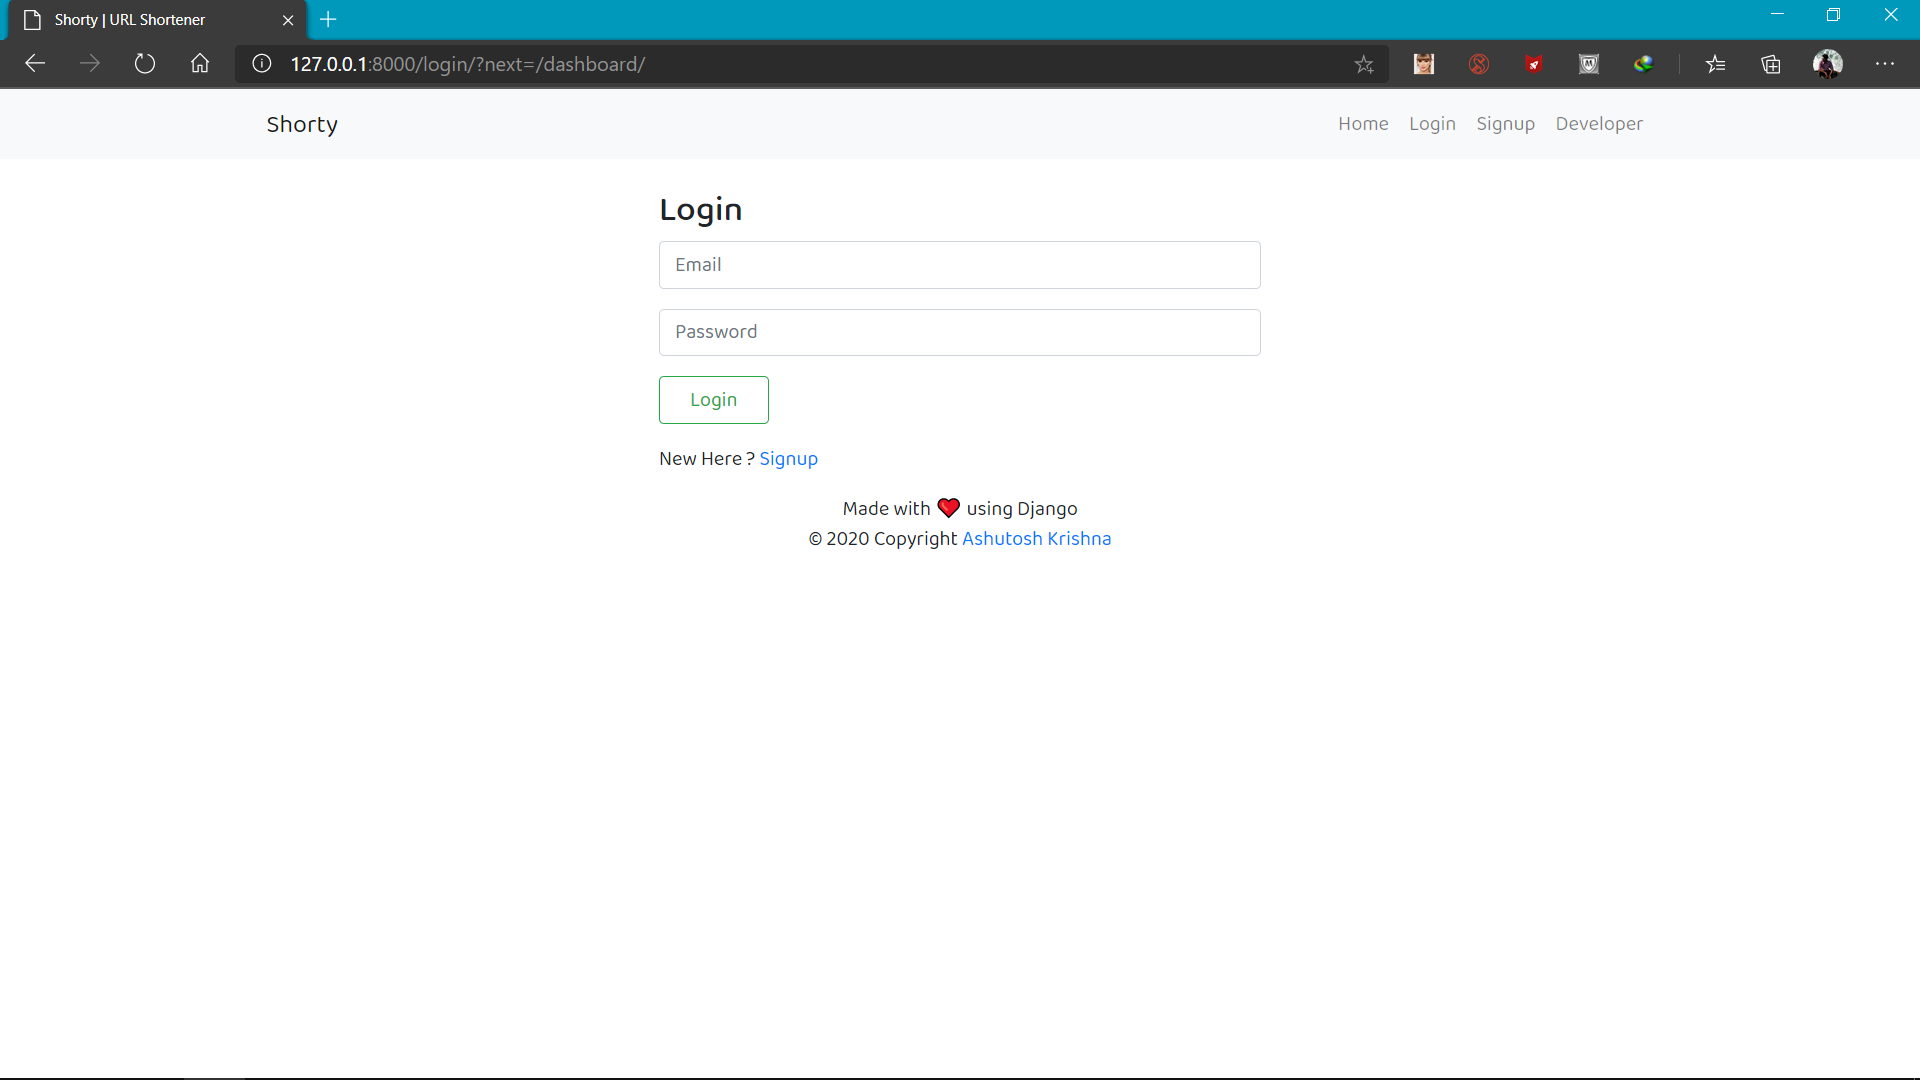
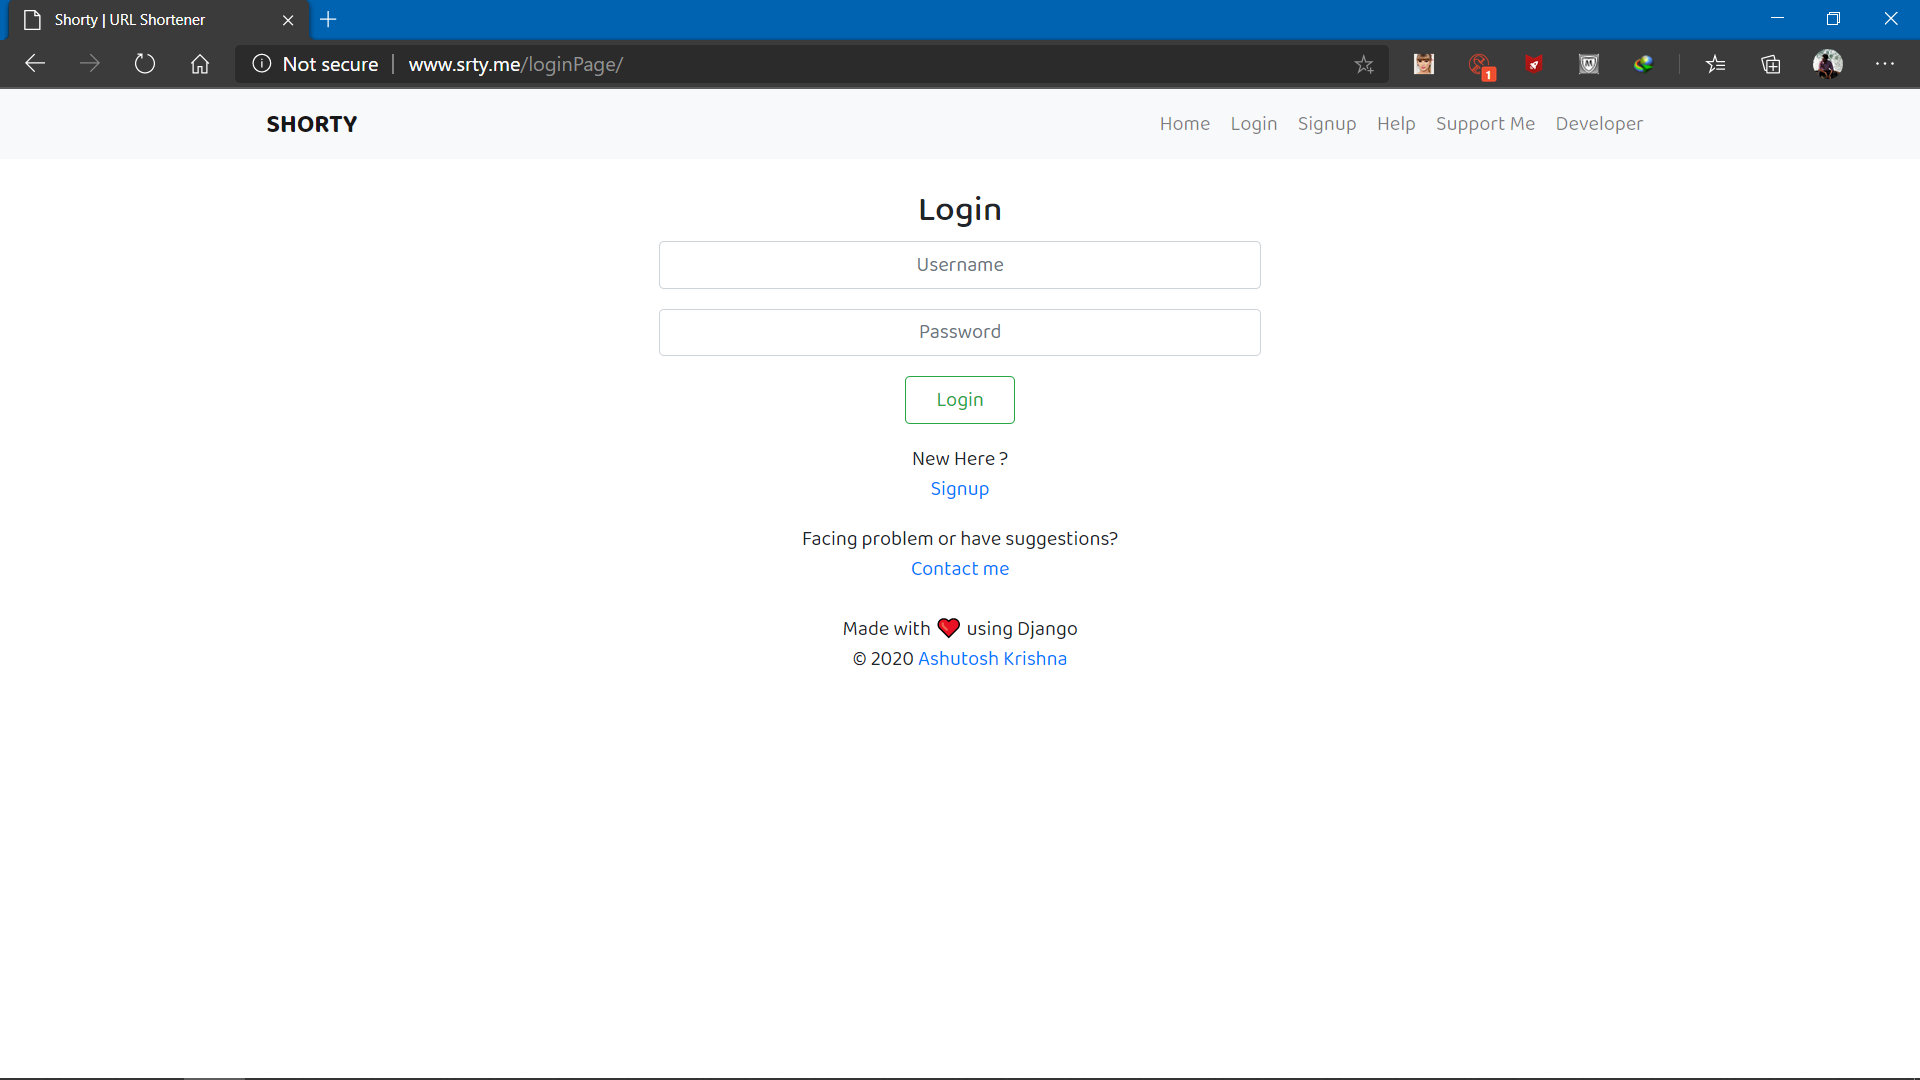
Update demo

diff --git a/templates/login.html b/templates/login.html
@@ -36,7 +36,7 @@
                 </div>   
                 <input type="hidden" name="next" value="{{ request.GET.next }}">    
                 <div class="form-group">
-                    <input type="submit" class="btn btn-outline-success px-4" value="Login">
+                    <center><input type="submit" class="btn btn-outline-success px-4" value="Login"></center>
                 </div>
                 <center>New Here ?</center> 
                 <a class="card-link" href="{% url 'signup' %}">Signup</a>

diff --git a/Shorty/settings.py b/Shorty/settings.py
@@ -20,7 +20,7 @@ BASE_DIR = Path(__file__).resolve(strict=True).parent.parent
 # See https://docs.djangoproject.com/en/3.1/howto/deployment/checklist/
 
 # SECURITY WARNING: keep the secret key used in production secret!
-SECRET_KEY = ''
+SECRET_KEY = 'jkhsdskdfl'
 
 # SECURITY WARNING: don't run with debug turned on in production!
 DEBUG = True

diff --git a/README.md b/README.md
@@ -8,7 +8,7 @@ You can visit the site [here](http://www.srty.me/) or http://www.srty.me/.
 
 ## Working Demo
 
-* **Homepage**
+* **Homepage(before login)**
 
 <img src="https://github.com/ashutoshkrris/Shorty/blob/master/demo/homepage.png" alt="Homepage" width=1000 height=500/>
 
@@ -20,9 +20,18 @@ You can visit the site [here](http://www.srty.me/) or http://www.srty.me/.
 
 <img src="https://github.com/ashutoshkrris/Shorty/blob/master/demo/login.png" alt="Login Page" width=1000 height=500/>
 
+* **Homepage(after login)**
+
+<img src="https://github.com/ashutoshkrris/Shorty/blob/master/demo/after_login.png" alt="Dashboard" width=1000 height=500/>
+
 * **Dashboard/Shortener**
 
 <img src="https://github.com/ashutoshkrris/Shorty/blob/master/demo/dashboard.png" alt="Dashboard" width=1000 height=500/>
+
+* **Change Password**
+
+<img src="https://github.com/ashutoshkrris/Shorty/blob/master/demo/password.png" alt="Dashboard" width=1000 height=500/>
+
 
 ## Getting Started
 
